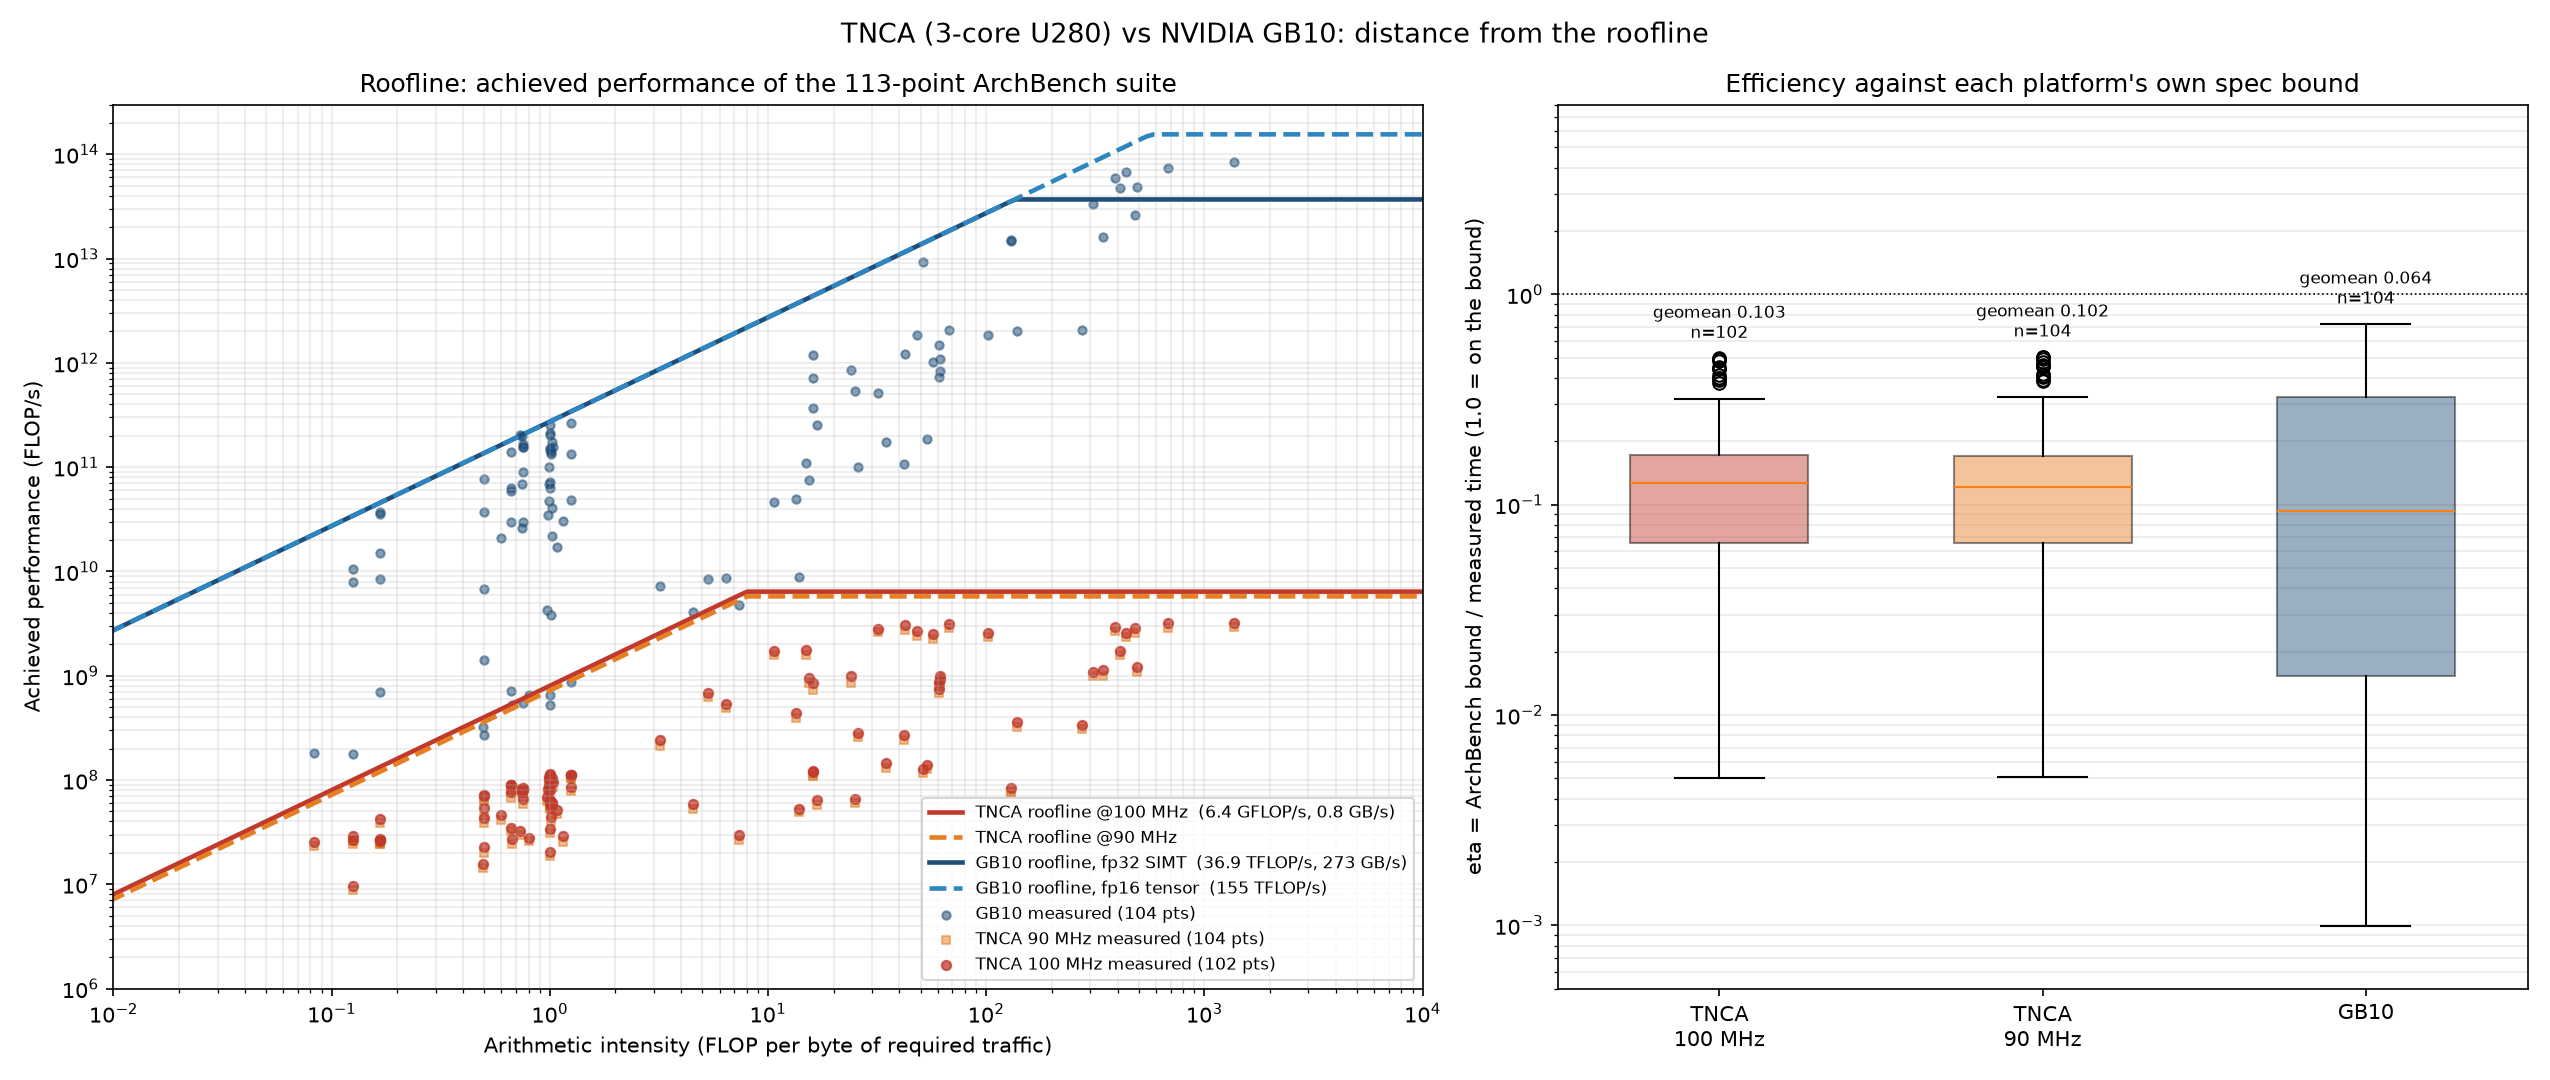
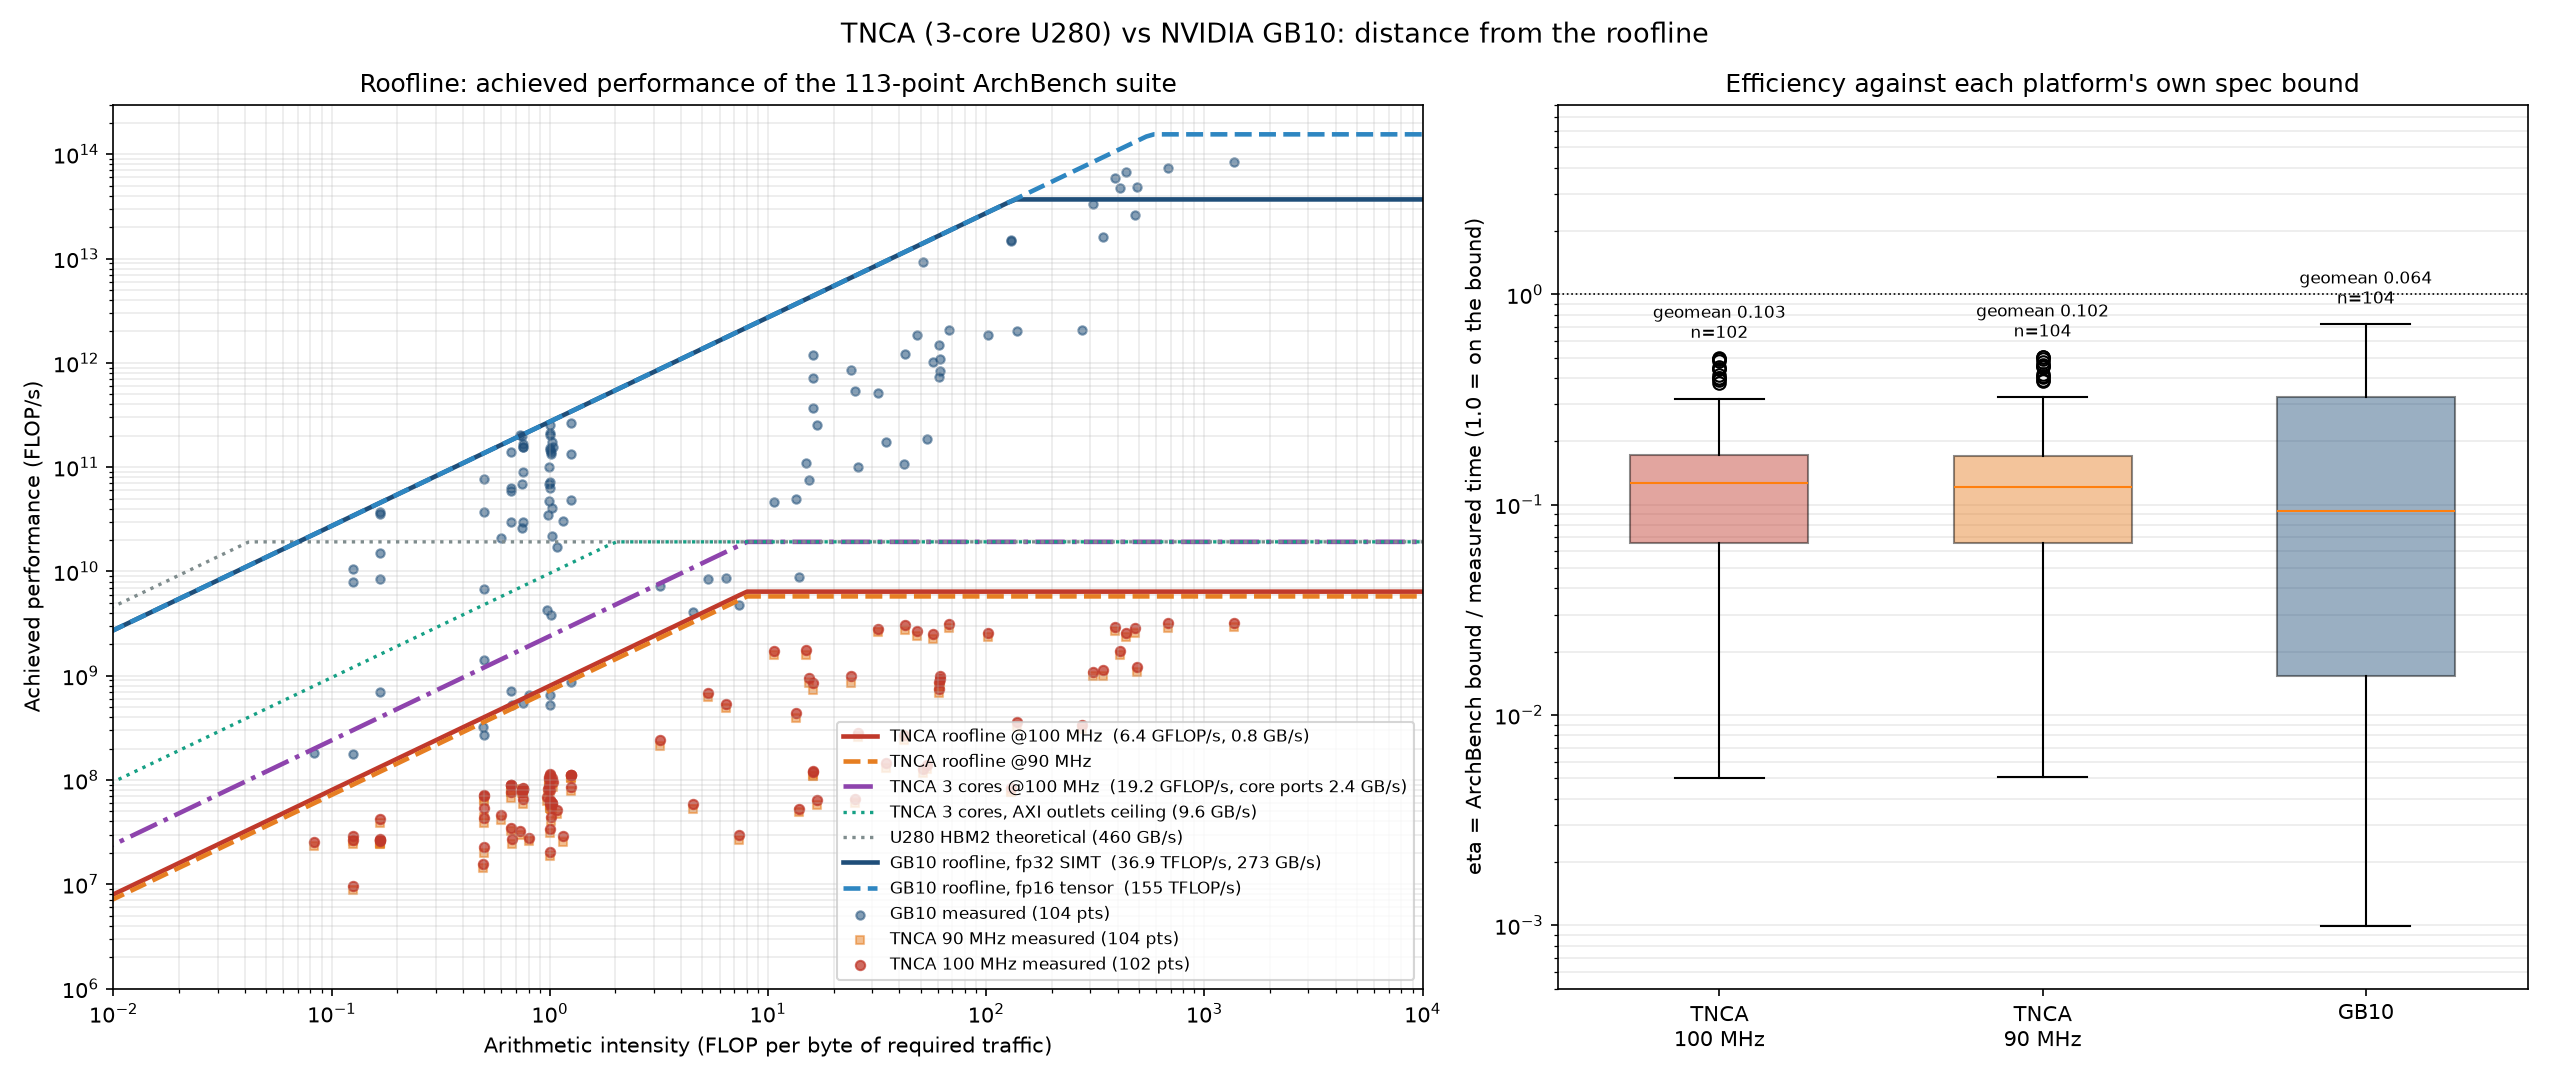
Roofline: show the 3-core, AXI-outlet and HBM2 ceilings, not only the single-core port
The 0.8 GB/s roof was ArchBench's single-core port bound, not HBM.

Changed region(s): [[0.3098, 0.6722, 0.5576, 0.9167], [0.2478, 0.4889, 0.5576, 0.5194], [0.2169, 0.55, 0.2478, 0.5806]]

diff --git a/tools/performance_harness/roofline_report.py b/tools/performance_harness/roofline_report.py
@@ -97,6 +97,10 @@ def main():
     clk100, clk90 = 100e6, 90e6
     tnca100 = (2 * tpk['fp_lane'] * clk100, tpk['mem_bytes'] * clk100)
     tnca90 = (2 * tpk['fp_lane'] * clk90, tpk['mem_bytes'] * clk90)
+    # Three-core device ceilings (board: 3 cores, 3 AXI outlets of 256 bit, 32 HBM2 pseudo-channels)
+    tnca3 = (3 * tnca100[0], 3 * tnca100[1])            # 3 cores x single-core port
+    axi3 = 3 * 32 * clk100                                # 3 outlets x 32 B/cycle
+    hbm = 460e9                                           # U280 HBM2: 32 PC x 14.4 GB/s
     gpu_simt = (2 * gpk['fp32_fma'], gpk['dram_bytes'])
     gpu_tc = (2 * gpk['tensor_fp16_mac'], gpk['dram_bytes'])
 
@@ -105,6 +109,8 @@ def main():
         axes='x: FLOP/byte (required traffic); y: achieved FLOP/s = demand FLOP / device time',
         peaks=dict(tnca_100MHz=dict(flops=tnca100[0], bytes_per_s=tnca100[1]),
                    tnca_90MHz=dict(flops=tnca90[0], bytes_per_s=tnca90[1]),
+                   tnca_3core_100MHz=dict(flops=tnca3[0], core_port_bytes_per_s=tnca3[1],
+                                          axi_outlets_bytes_per_s=axi3, hbm_theoretical_bytes_per_s=hbm),
                    gb10_fp32_simt=dict(flops=gpu_simt[0], bytes_per_s=gpu_simt[1]),
                    gb10_fp16_tensor=dict(flops=gpu_tc[0], bytes_per_s=gpu_tc[1])),
         results=[summarize('TNCA 100 MHz (Stage 2 image, board)', t100, *tnca100),
@@ -149,6 +155,9 @@ def main():
 
     roof(a0, tnca100, '#c0392b', f'TNCA roofline @100 MHz  ({tnca100[0]/1e9:.1f} GFLOP/s, {tnca100[1]/1e9:.1f} GB/s)')
     roof(a0, tnca90, '#e67e22', f'TNCA roofline @90 MHz', ls='--')
+    roof(a0, (tnca3[0], tnca3[1]), '#8e44ad', f'TNCA 3 cores @100 MHz  ({tnca3[0]/1e9:.1f} GFLOP/s, core ports {tnca3[1]/1e9:.1f} GB/s)', ls='-.')
+    a0.plot(xs, np.minimum(tnca3[0], axi3 * xs), color='#16a085', lw=1.6, ls=':', label=f'TNCA 3 cores, AXI outlets ceiling ({axi3/1e9:.1f} GB/s)')
+    a0.plot(xs, np.minimum(tnca3[0], hbm * xs), color='#7f8c8d', lw=1.6, ls=':', label=f'U280 HBM2 theoretical ({hbm/1e9:.0f} GB/s)')
     roof(a0, gpu_simt, '#1f4e79', f'GB10 roofline, fp32 SIMT  ({gpu_simt[0]/1e12:.1f} TFLOP/s, {gpu_simt[1]/1e9:.0f} GB/s)')
     roof(a0, gpu_tc, '#2e86c1', f'GB10 roofline, fp16 tensor  ({gpu_tc[0]/1e12:.0f} TFLOP/s)', ls='--')
     a0.scatter([p['ai'] for p in gpts], [p['perf'] for p in gpts], s=16, c='#1f4e79', alpha=.55, label=f'GB10 measured ({len(gpts)} pts)')

diff --git a/evidence/r41/stage2/roofline/README.md b/evidence/r41/stage2/roofline/README.md
@@ -25,9 +25,30 @@
 - Families where GB10 is further from its bound than TNCA: `matmul`, `linear`, `mlp`, `cumsum`, `add`, `gpt2_block`.
 - Families where TNCA is further from its bound: `attention_prefill`, `attention_decode`, `bmm`, `llama_decode`, `gemv`.
 
+## Which memory ceiling? (correction)
+The 0.8 GB/s roof is not the HBM bandwidth. It is ArchBench's per-core spec bound: one core, 8 B/cycle through its single memory port (`tnca_mem_mux.v`, 64-bit), at 100 MHz. The figure now shows all the ceilings of the 3-core board, from tightest to loosest:
+
+| Ceiling | Value at 100 MHz | Basis |
+|---|---:|---|
+| One core's port (ArchBench bound) | 0.8 GB/s | 8 B/cycle |
+| Three cores' ports | 2.4 GB/s | 3 × 8 B/cycle |
+| Three AXI outlets | 9.6 GB/s | 3 × 256-bit (32 B/cycle) |
+| U280 HBM2, theoretical | 460 GB/s | 32 pseudo-channels × 14.4 GB/s |
+
+The compute ceiling for three cores is 19.2 GFLOP/s (3 × 64 FLOP/cycle). Distance of the 102 TNCA 100 MHz points to the roofline of each ceiling (geometric mean; no point is above any roof):
+
+| Memory ceiling | Gap | Best | Worst |
+|---|---:|---:|---:|
+| One core (the ArchBench-bound roofline) | 9.7× | | |
+| Three cores' ports | 29.0× | 6.0× | 597× |
+| Three AXI outlets | 66.2× | 6.0× | 652× |
+| HBM2 theoretical | 128.4× | 6.0× | 1,982× |
+
+So the 9.7× gap above is relative to a one-core roof. Against the 3-core hardware, the gap is 29× to the core ports. The bottleneck is the core-side path, not HBM. R40's model attribution (`evidence/r40/v3/model_attribution`) says the same: the NUCA home-slice engine and the per-core memory path limit streaming, not the outlets or HBM. The HBM line is a theoretical ceiling that this design cannot reach with 3 outlets of 256 bits at 100 MHz (9.6 GB/s).
+
 ## What this does not say
 - **Absolute speed:** the GB10 is about 600× faster in time on the same points (geometric mean of device-time ratios, 1/0.0016). The two rooflines differ by about 6,000× in FLOP/s. Efficiency is comparable between the platforms; absolute performance is not.
-- **TNCA roofline:** it is the single-core spec bound that ArchBench uses for eta, although the board runs three cores. A three-core roofline would be higher, and TNCA's gap larger, except where the work cannot use all three cores. The memory roof is the core's 8 B/cycle port, not the HBM peak, so it is a conservative ceiling.
+- **TNCA roofline:** eta uses the single-core spec bound, although the board runs three cores; see the section above for the three-core ceilings.
 - **Dropped points:** 11 of the 113 points have zero FLOP demand (pure data movement such as `embedding` and `transpose`), so they have no place on a FLOP roofline. The GPU file has 115 records for the 113 points (two points appear twice); the same 11 zero-FLOP records are dropped, which leaves 104. The TNCA 90 MHz set also plots 104 points.
 - **Time basis:** TNCA time is the serial-grid device cycle count, the basis of eta. GB10 time is CUPTI device activity with a cold L2.
 - **Data:** the 100 MHz points are `s2-original-suite` from the Stage 2 board run. The 90 MHz points and the GB10 points are the R40 v3 delivery records (`evidence/r40/v3/gpu_comparison`). The Stage 1 `board-original-suite` rerun on the 90 MHz image has not finished.
